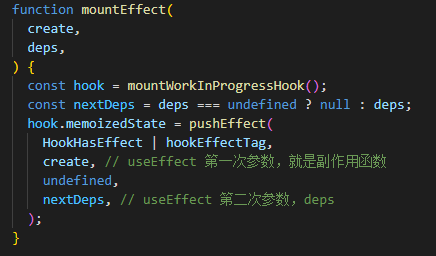
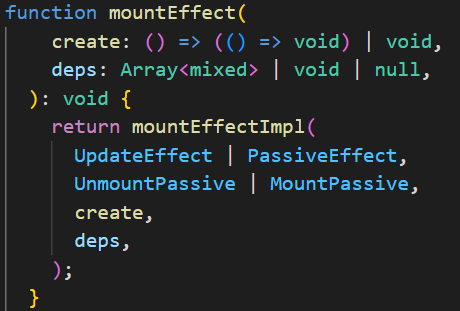
[refactor] 修改内容7

diff --git a/src/pages/HookTheory/UseEffect/lesson3/index.tsx b/src/pages/HookTheory/UseEffect/lesson3/index.tsx
@@ -2,16 +2,81 @@ import React from "react";
 import { Typography } from "antd";
 import "./index.css";
 
-const { Title, Paragraph } = Typography;
+const { Title, Paragraph, Text } = Typography;
 
 const UseEffectLesson3: React.FC = () => {
   return (
     <Typography>
-      <Title>useEffect</Title>
+      <Title>PushEffect</Title>
       <Paragraph>
-        Hook 接受 useEffect 传入的 callback 返回一个函数，在 Fiber
-        的清理阶段将会执行这个函数，从而达到清理 effect 的效果：
-        <div className="useEffectClean mt-20 mb-20" />
+        <Title level={3}>创建effect对象，挂载updateQueue</Title>
+        <div className="pushEffect my-20" />
+        <Text>
+          首先根据入参声明了一个新的 effect，由数据结构能看出，它是一个循环链表
+        </Text>
+        <div className="effectType my-20" />
+        接下来根据 componentUpdateQueue 是否为空走两套逻辑，而
+        componentUpdateQueue 的结构其实很简单:
+        <div className="FunctionComponentUpdateQueue my-20" />
+        <Text>接下来根据 componentUpdateQueue 是否为空走两套逻辑</Text>
+        <div />
+        <ol>
+          <li>
+            <Text strong>componentUpdateQueue 为空</Text>：这种情况就是
+            mountEffect 时候的逻辑，它会创建一个空的
+            componentUpdateQueue，它其实只是
+            <Text code type={"danger"}>{`{lastEffect: null}`}</Text> ，之后将
+            <Text code type={"danger"}>
+              componentUpdateQueue.lastEffect
+            </Text>{" "}
+            指向
+            <Text code type={"danger"}>
+              effect.next
+            </Text>
+            ，其实就是存了一下 effect。
+          </li>
+          <li>
+            <Text strong>componentUpdateQueue 不为空</Text>：这种情况就是
+            updateEffect 时候会走到的逻辑
+          </li>
+          <li>
+            <Text strong>lastEffect 为空</Text>：这种情况是新的渲染阶段的第一个
+            useEffect，逻辑处理和 componentUpdateQueue 为空时一致。
+          </li>
+          <li>
+            <Text strong>lastEffect 不为空</Text>：这种情况意味着这个组件有多个
+            useEffect，是第二个及其之后的 useEffect 会走到的分支，将 lastEffect
+            指向下一个 effect。
+          </li>
+        </ol>
+        <Text>最后 return 一个 effect。</Text>
+        <div />
+        <Title level={3}>例子</Title>
+        <Text>假设我们在一个函数组件中这么写：</Text>
+        <div className="useEffect3 my-20" />
+        <Text>最后workInProgress.updateQueue会以这样的形式保存：</Text>
+        <div className="updateQuene my-20" />
+      </Paragraph>
+      <Paragraph>
+        <div />
+        <Title level={3}>结构简图</Title>
+        <div className="HookDataConstruct mt-20 mb-20" />
+        <Text>图中黄色为Fiber节点，绿色为Hook节点，蓝色为Effect节点。</Text>
+        <div />
+        <Text>
+          Fiber节点，其实就是我们的虚DOM节点，react会生成一个Fiber节点树，每个组件在Fiber树上都有对应的Fiber节点。
+        </Text>
+        <div />
+        <Text>
+          currentlyRenderingFiber表示我们正在进行渲染的节点，它来自于workInProgress，current表示已经渲染的节点。
+        </Text>
+        <ol>
+          <li>组件加载</li>
+          <li>组件更新</li>
+          <li>组件渲染</li>
+        </ol>
+
+        <div className="commitHookEffectList mt-20 mb-20" />
       </Paragraph>
     </Typography>
   );

diff --git a/src/pages/HookTheory/UseEffect/lesson2/index.tsx b/src/pages/HookTheory/UseEffect/lesson2/index.tsx
@@ -9,6 +9,7 @@ const UseEffectLesson2: React.FC = () => {
     <Typography>
       <Title> UpdateEffect</Title>
       <div className="updateEffect mt-20 mb-20" />
+      <div className="updateEffectImpl mt-20 mb-20" />
 
       <Text>
         useEffect 做的事很简单，判断两次deps
@@ -17,18 +18,6 @@ const UseEffectLesson2: React.FC = () => {
         ,并且赋值给hook.memoizedState，这里标签是 HookHasEffect |
         hookEffectTag,然后在commit阶段，react会通过标签来判断，是否执行当前的
         effect 函数。
-      </Text>
-
-      <Title level={3}>结构简图</Title>
-      <div className="HookDataConstruct mt-20 mb-20" />
-      <Text>图中黄色为Fiber节点，绿色为Hook节点，蓝色为Effect节点。</Text>
-      <div />
-      <Text>
-        Fiber节点，其实就是我们的虚DOM节点，react会生成一个Fiber节点树，每个组件在Fiber树上都有对应的Fiber节点。
-      </Text>
-      <div />
-      <Text>
-        currentlyRenderingFiber表示我们正在进行渲染的节点，它来自于workInProgress，current表示已经渲染的节点。
       </Text>
     </Typography>
   );

diff --git a/src/pages/HookTheory/UseEffect/lesson3/index.css b/src/pages/HookTheory/UseEffect/lesson3/index.css
@@ -5,3 +5,51 @@
     height: 675px;
 }
 
+.pushEffect {
+    background-image: url("pushEffect.png");
+    background-size: 100%;
+    width: 711px;
+    height: 786px;
+}
+
+.useEffect3 {
+    background-image: url("useEffect3.png");
+    background-size: 100%;
+    width: 177px;
+    height: 229px;
+}
+
+.effectType {
+    background-image: url("effectType.png");
+    background-size: 100%;
+    width: 799px;
+    height: 216px;
+}
+
+.FunctionComponentUpdateQueue {
+    background-image: url("FunctionComponentUpdateQueue.png");
+    background-size: 100%;
+    width: 532px;
+    height: 93px;
+}
+
+.updateQuene {
+    background-image: url("updateQuene.png");
+    background-size: 100%;
+    width: 659px;
+    height: 381px;
+}
+
+.HookDataConstruct {
+    background-image: url("HookDataConstruct.png");
+    background-size: 100%;
+    width: 892px;
+    height: 704px;
+}
+
+.commitHookEffectList {
+    background-image: url("commitHookEffecctList.png");
+    background-size: 100%;
+    width: 1077px;
+    height: 807px;
+}

diff --git a/src/pages/HookTheory/UseState/lesson3/index.tsx b/src/pages/HookTheory/UseState/lesson3/index.tsx
@@ -10,13 +10,19 @@ const UseStateLesson3: React.FC = () => {
     <Typography>
       <Title>UpdateState</Title>
       <Paragraph>
-        <div className="updateState my-20" />
+        <div className={"flex items-center"}>
+          <div className="updateState my-20" />
+          <div className="simpleUpdateState ml-40" />
+        </div>
         这一段看起来很复杂，让我们慢慢吃透，首先将上一次更新的pending queue
         合并到 basequeue，为什么要这么做，比如我们再一次点击事件中这么写，
       </Paragraph>
 
       <Paragraph>
-        <div className="updateStateDemo my-20" />
+        <div className={"flex items-center"}>
+          <div className="updateStateDemo my-20" />
+          <div className="HookQueue ml-40" />
+        </div>
         <UpdateStateDemo />
         <Title level={4}>点击按钮， 打印 3</Title>
         三次setNumber产生的update会暂且放入pending

diff --git a/src/pages/HookTheory/index.tsx b/src/pages/HookTheory/index.tsx
@@ -23,6 +23,7 @@ import UseMemoPractice from "./UseMemo/practice";
 import UseCallbackPractice from "./UseCallBack/practice";
 import UseRefPractice from "./UseRef/practice";
 import UseCallBackLesson2 from "./UseCallBack/lesson2";
+import UseEffectLesson3 from "./UseEffect/lesson3";
 
 const HookTheory = () => {
   return (
@@ -42,6 +43,7 @@ const HookTheory = () => {
           <Route path="useState/extraLesson" element={<ExtraLesson />} />
           <Route path="useEffect/lesson1" element={<UseEffectLesson1 />} />
           <Route path="useEffect/lesson2" element={<UseEffectLesson2 />} />
+          <Route path="useEffect/lesson3" element={<UseEffectLesson3 />} />
           <Route path="useEffect/practice" element={<UseEffectPractice />} />
           <Route path="useMemo/lesson1" element={<UseMemoLesson />} />
           <Route path="useMemo/lesson2" element={<UseMemoLesson2 />} />

diff --git a/src/pages/HookTheory/UseEffect/lesson1/index.tsx b/src/pages/HookTheory/UseEffect/lesson1/index.tsx
@@ -16,16 +16,7 @@ const UseEffectLesson1: React.FC = () => {
           每个hooks初始化都会创建一个hook对象，然后将hook的memoizedState保存当前effect
           hook信息。
         </Text>
-      </Paragraph>
-      <Paragraph>
-        <Title level={3}>pushEffect 创建effect对象，挂载updateQueue</Title>
-        <div className="pushEffect my-20" />
-        <Text>假设我们在一个函数组件中这么写：</Text>
-        <div className="useEffect3 my-20" />
-        <Text>最后workInProgress.updateQueue会以这样的形式保存：</Text>
-        <div className="updateQuene my-20" />
-
-        <Text type={"danger"}>EffectList</Text>
+        <div className="mountEffectImpl my-20" />
       </Paragraph>
     </Typography>
   );

diff --git a/src/pages/HookTheory/UseEffect/lesson1/index.css b/src/pages/HookTheory/UseEffect/lesson1/index.css
@@ -8,27 +8,15 @@
 .mountEffect {
     background-image: url("mountEffect.png");
     background-size: 100%;
-    width: 436px;
-    height: 256px;
+    width: 460px;
+    height: 311px;
 }
 
-.pushEffect {
-    background-image: url("pushEffect.png");
+
+.mountEffectImpl {
+    background-image: url("mountEffectImpl.png");
     background-size: 100%;
-    width: 711px;
-    height: 786px;
+    width: 922px;
+    height: 188px;
 }
 
-.useEffect3 {
-    background-image: url("useEffect3.png");
-    background-size: 100%;
-    width: 177px;
-    height: 229px;
-}
-
-.updateQuene {
-    background-image: url("updateQuene.png");
-    background-size: 100%;
-    width: 659px;
-    height: 381px;
-}

diff --git a/src/pages/HookTheory/UseEffect/lesson2/index.css b/src/pages/HookTheory/UseEffect/lesson2/index.css
@@ -3,13 +3,13 @@
 .updateEffect {
     background-image: url("updateEffect.png");
     background-size: 100%;
-    width: 669px;
-    height: 458px;
+    width: 430px;
+    height: 322px;
 }
 
-.HookDataConstruct {
-    background-image: url("HookDataConstruct.png");
+.updateEffectImpl {
+    background-image: url("updateEffectImpl.png");
     background-size: 100%;
-    width: 892px;
-    height: 704px;
+    width: 913px;
+    height: 592px;
 }

diff --git a/src/pages/HookTheory/UseState/lesson2/index.tsx b/src/pages/HookTheory/UseState/lesson2/index.tsx
@@ -20,9 +20,6 @@ const UseStateLesson2: React.FC = () => {
           queue,我们传入的参数是第三个参数action
         </div>
         <div className="dispatch1 my-20" />
-        dispatchAction 就是 setNumber , dispatchAction
-        第一个参数和第二个参数，已经被bind给改成currentlyRenderingFiber和
-        queue,我们传入的参数是第三个参数action
       </Paragraph>
 
       <Paragraph>

diff --git a/src/pages/HookTheory/UseState/lesson3/index.css b/src/pages/HookTheory/UseState/lesson3/index.css
@@ -25,3 +25,17 @@
     width: 652px;
     height: 447px;
 }
+
+.simpleUpdateState {
+    background-image: url("simpleUpdateState.png");
+    background-size: 100%;
+    width: 558px;
+    height: 189px;
+}
+
+.HookQueue {
+    background-image: url("HookQueue.png");
+    background-size: 100%;
+    width: 284px;
+    height: 528px;
+}

diff --git a/src/pages/HookTheory/Menu/index.tsx b/src/pages/HookTheory/Menu/index.tsx
@@ -78,6 +78,10 @@ const HooksMenu = () => {
       name: "更新",
     },
     {
+      url: "/HookTheory/useEffect/lesson3",
+      name: "PushEffect",
+    },
+    {
       url: "/HookTheory/useEffect/practice",
       name: "useEffectPractice",
     },
